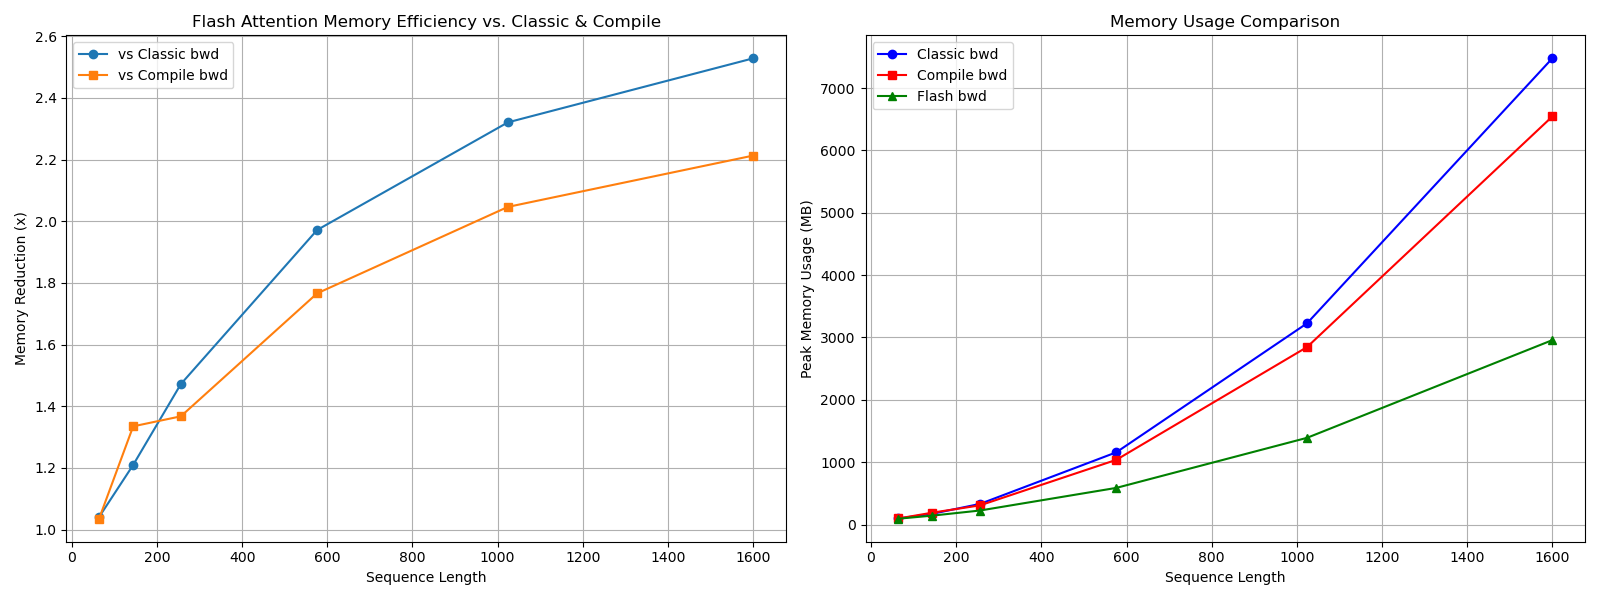
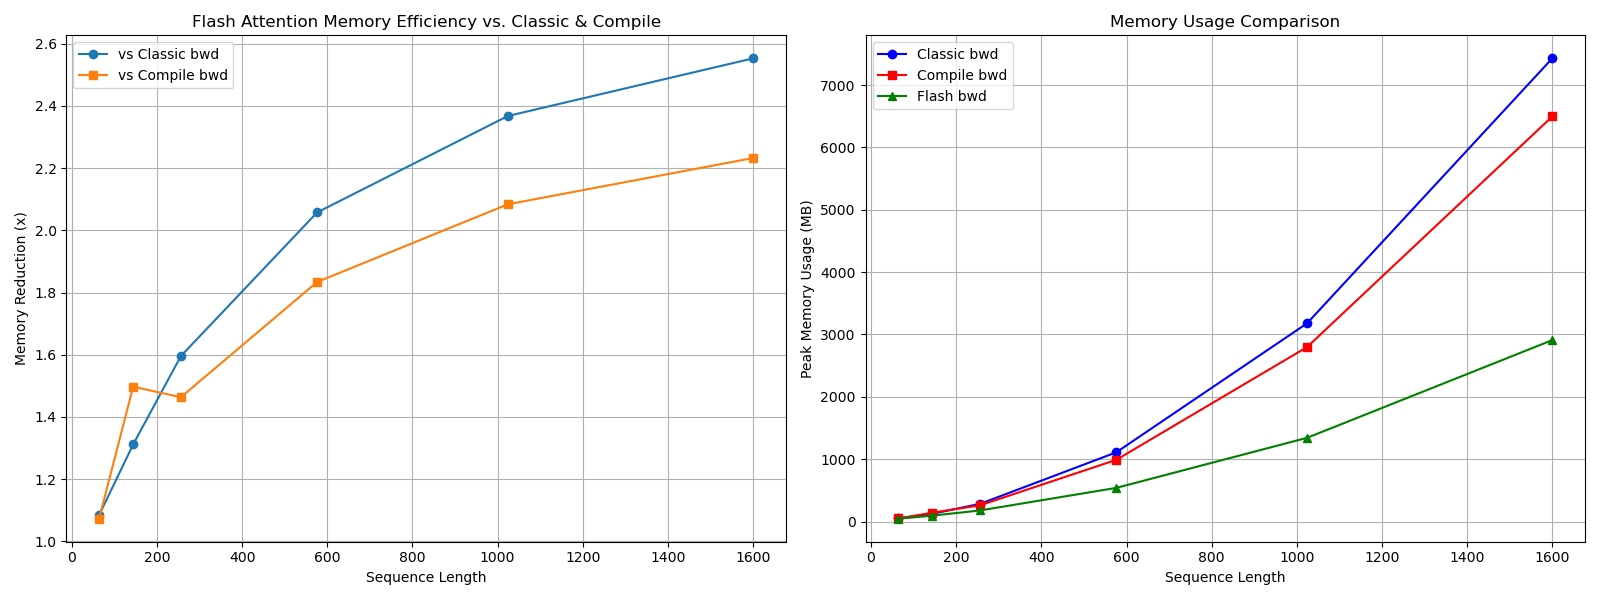
added speed benchmark & changed some params in kernels

diff --git a/benchmark/results/results.html b/benchmark/results/results.html
@@ -1,4 +1,6 @@
 <html><body>
-<image src="win-attention-comparison-batch8-window4-head6-d32-fwd.png"/>
-<image src="win-attention-comparison-batch8-window4-head6-d32-bwd.png"/>
+<image src="win-attention-tflops-comparison-batch16-window4-head6-d32-fwd.png"/>
+<image src="win-attention-time-comparison-batch16-window4-head6-d32-fwd.png"/>
+<image src="win-attention-tflops-comparison-batch16-window4-head6-d32-bwd.png"/>
+<image src="win-attention-time-comparison-batch16-window4-head6-d32-bwd.png"/>
 </body></html>

diff --git a/benchmark/bench_compute.py b/benchmark/bench_compute.py
@@ -3,15 +3,11 @@ import triton
 
 from utils import calculate_cosine_attention_flops
 from config import benchmark_configs
-from win_attention_func import flash_win_attn_2, win_attention_torch, win_attention_torch_compile
+from win_attention_func import flash_win_attn_v2, win_attention_torch, win_attention_torch_compile
 
-#torch._functorch.config.donated_buffer = False
 
 def test_attention_correctness(use_logit_scale=True, dtype=torch.float16):
-    """
-    Test the correctness of the Triton FlashAttention implementation against PyTorch.
-    Reports only the max absolute error for the forward pass and gradients.
-    """
+
     #torch.manual_seed(0)
     device = torch.device("cuda")
 
@@ -29,13 +25,11 @@ def test_attention_correctness(use_logit_scale=True, dtype=torch.float16):
     ).to(device=device, dtype=dtype)
     if use_logit_scale:
         logit_scale = torch.randn((nheads, 1, 1), device=device, dtype=dtype, requires_grad=True)
-        # logit_scale = torch.nn.Parameter(torch.log(10 * torch.ones((nheads, 1, 1))), requires_grad=True).to(device=device, dtype=dtype)
-        # logit_scale.retain_grad()
     else:
         logit_scale = None
 
     # Compute outputs
-    o_flash = flash_win_attn_2(q, k, v, logit_scale, bias, mask)
+    o_flash = flash_win_attn_v2(q, k, v, logit_scale, bias, mask)
     o_torch = win_attention_torch(q, k, v, logit_scale, bias, mask)
     o_compile = win_attention_torch_compile(q, k, v, logit_scale, bias, mask)
 
@@ -114,7 +108,7 @@ def test_attention_correctness(use_logit_scale=True, dtype=torch.float16):
 
 
 @triton.testing.perf_report(benchmark_configs)
-def bench_attention_comparison(BATCH, W, H, seqlen, HEAD_DIM, mode, provider, dtype=torch.float16, use_logit_scale=True):
+def bench_attention_comparison(BATCH, W, H, seqlen, HEAD_DIM, mode, metric, provider, dtype=torch.float16, use_logit_scale=True):
 
     device = torch.device("cuda")
 
@@ -128,13 +122,11 @@ def bench_attention_comparison(BATCH, W, H, seqlen, HEAD_DIM, mode, provider, dt
     ).to(device=device, dtype=dtype)
     if use_logit_scale:
         logit_scale = torch.randn((H, 1, 1), device=device, dtype=dtype, requires_grad=True)
-        # logit_scale = torch.nn.Parameter(torch.log(10 * torch.ones((nheads, 1, 1))), requires_grad=True).to(device=device, dtype=dtype)
-        # logit_scale.retain_grad()
     else:
         logit_scale = None
 
     def forward_backward_triton():
-        out = flash_win_attn_2(q, k, v, logit_scale, bias, mask)
+        out = flash_win_attn_v2(q, k, v, logit_scale, bias, mask)
         loss = (0 - out.sum())
         loss.backward()
         torch.cuda.synchronize()
@@ -174,7 +166,7 @@ def bench_attention_comparison(BATCH, W, H, seqlen, HEAD_DIM, mode, provider, dt
 
     if mode == "fwd":
         if provider == "triton-win-attn-2":
-            fn = lambda: flash_win_attn_2(q, k, v, logit_scale, bias, mask)
+            fn = lambda: flash_win_attn_v2(q, k, v, logit_scale, bias, mask)
         elif provider == "torch-win-attn-2":
             fn = lambda: win_attention_torch(q, k, v, logit_scale, bias, mask)
         elif provider == "torch-compile-win-attn-2":
@@ -196,17 +188,20 @@ def bench_attention_comparison(BATCH, W, H, seqlen, HEAD_DIM, mode, provider, dt
     # Run benchmark
     ms = triton.testing.do_bench(fn)
 
-    # Calculate FLOPS
-    total_flops_fwd = calculate_cosine_attention_flops(BATCH, W, H, seqlen, HEAD_DIM)
+    if metric == "TFLOPS":
+        # Calculate FLOPS
+        total_flops_fwd = calculate_cosine_attention_flops(BATCH, W, H, seqlen, HEAD_DIM)
 
-    # Backward pass has roughly 2x the FLOPS of forward pass
-    total_flops = total_flops_fwd * (3 if mode == "bwd" else 1)
+        # Backward pass has roughly 2x the FLOPS of forward pass
+        total_flops = total_flops_fwd * (3 if mode == "bwd" else 1)
 
-    # Calculate TFLOPS
-    tflops = total_flops * 1e-12 / (ms * 1e-3)
+        # Calculate TFLOPS
+        tflops = total_flops * 1e-12 / (ms * 1e-3)
 
-    # Return TFLOPS for plotting
-    return tflops
+        # Return TFLOPS for plotting
+        return tflops
+    else:
+        return ms
 
 
 if __name__ == "__main__":

diff --git a/benchmark/config.py b/benchmark/config.py
@@ -1,37 +1,43 @@
 import triton
 
 # Benchmarking configuration
-BATCH, N_WINDOWS, N_HEADS, HEAD_DIM = 8, 4, 6, 32  # Aligned with test_attention_correctness
+BATCH, N_WINDOWS, N_HEADS, HEAD_DIM = 16, 4, 6, 32  # Aligned with test_attention_correctness
 
-benchmark_configs = [
-    triton.testing.Benchmark(
-        x_names=["seqlen"],
-        x_vals=[i**2 for i in [8, 12, 16, 24, 32, 40]],
-        line_arg="provider",
-        line_vals=[
-            "triton-win-attn-2",
-            "torch-win-attn-2",
-            "torch-compile-win-attn-2",
-        ],
-        line_names=[
-            "Triton-Win-Attn-2 (TFLOPS)",
-            "PyTorch-Win-Attn-2 (TFLOPS)",
-            "PyTorch-Compile-Win-Attn-2 (TFLOPS)",
-        ],
-        styles=[
-            ("red", "-"),
-            ("blue", "--"),
-            ("cyan", "-."),
-        ],
-        ylabel="TFLOPS",  # Changed from Time (ms) to TFLOPS
-        plot_name=f"win-attention-comparison-batch{BATCH}-window{N_WINDOWS}-head{N_HEADS}-d{HEAD_DIM}-{mode}",
-        args={
-            "BATCH": BATCH,
-            "W": N_WINDOWS,
-            "H": N_HEADS,
-            "HEAD_DIM": HEAD_DIM,
-            "mode": mode,
-        }
-    )
-    for mode in ["fwd", "bwd"]
-]
+benchmark_configs = []
+
+for mode in ["fwd", "bwd"]:
+    for metric in ["TFLOPS", "TIME-ms"]:
+        metric_suffix = metric.split("-")[-1]
+        metric_prefix = metric.split("-")[0]
+        
+        config = triton.testing.Benchmark(
+            x_names=["seqlen"],
+            x_vals=[i**2 for i in [8, 12, 16]],
+            line_arg="provider",
+            line_vals=[
+                "triton-win-attn-2",
+                "torch-win-attn-2",
+                "torch-compile-win-attn-2",
+            ],
+            line_names=[
+                f"Triton-Win-Attn-2 ({metric_suffix})",
+                f"PyTorch-Win-Attn-2 ({metric_suffix})",
+                f"PyTorch-Compile-Win-Attn-2 ({metric_suffix})",
+            ],
+            styles=[
+                ("red", "-"),
+                ("blue", "--"),
+                ("cyan", "-."),
+            ],
+            ylabel=f"{metric_prefix}",
+            plot_name=f"win-attention-{metric_prefix.lower()}-comparison-batch{BATCH}-window{N_WINDOWS}-head{N_HEADS}-d{HEAD_DIM}-{mode}",
+            args={
+                "BATCH": BATCH,
+                "W": N_WINDOWS,
+                "H": N_HEADS,
+                "HEAD_DIM": HEAD_DIM,
+                "mode": mode,
+                "metric": metric,
+            }
+        )
+        benchmark_configs.append(config)

diff --git a/benchmark/bench_memory.py b/benchmark/bench_memory.py
@@ -5,7 +5,7 @@ import numpy as np
 import matplotlib.pyplot as plt
 
 # Assuming these functions are defined in a separate file as in the original code
-from win_attention_func import flash_win_attn_2, win_attention_torch, win_attention_torch_compile
+from win_attention_func import flash_win_attn_v2, win_attention_torch, win_attention_torch_compile
 
 def benchmark_memory_allocation(
     seq_lens: list,
@@ -53,7 +53,7 @@ def benchmark_memory_allocation(
         for _ in range(3):
             _ = win_attention_torch(q_classic, k_classic, v_classic, logit_scale_classic, bias_classic, mask)
             _ = win_attention_torch_compile(q_compile, k_compile, v_compile, logit_scale_compile, bias_compile, mask)
-            _ = flash_win_attn_2(q_flash, k_flash, v_flash, logit_scale_flash, bias_flash, mask)
+            _ = flash_win_attn_v2(q_flash, k_flash, v_flash, logit_scale_flash, bias_flash, mask)
 
         # Benchmark forward pass memory
         classic_fwd_memory, compile_fwd_memory, flash_fwd_memory = [], [], []
@@ -72,7 +72,7 @@ def benchmark_memory_allocation(
 
             torch.cuda.empty_cache()
             torch.cuda.reset_peak_memory_stats()
-            _ = flash_win_attn_2(q_flash, k_flash, v_flash, logit_scale_flash, bias_flash, mask)
+            _ = flash_win_attn_v2(q_flash, k_flash, v_flash, logit_scale_flash, bias_flash, mask)
             torch.cuda.synchronize()
             flash_fwd_memory.append(torch.cuda.max_memory_allocated() / (1024 ** 2))  # MB
 
@@ -98,7 +98,7 @@ def benchmark_memory_allocation(
 
             torch.cuda.empty_cache()
             torch.cuda.reset_peak_memory_stats()
-            out3 = flash_win_attn_2(q_flash, k_flash, v_flash, logit_scale_flash, bias_flash, mask)
+            out3 = flash_win_attn_v2(q_flash, k_flash, v_flash, logit_scale_flash, bias_flash, mask)
             out3.backward(grad_output)
             torch.cuda.synchronize()
             flash_bwd_memory.append(torch.cuda.max_memory_allocated() / (1024 ** 2))  # MB
@@ -226,7 +226,7 @@ def save_results_to_csv(results, filename, mode='fwd'):
 def run_memory_benchmarks():
     """Run all benchmarks with a focus on memory allocation."""
     # Parameters for tests
-    batch_size = 8
+    batch_size = 16
     num_windows = 4
     num_heads = 6
     head_dim = 32

diff --git a/flash_win_attn_v2/flash_window_attention_v2.py b/flash_win_attn_v2/flash_window_attention_v2.py
@@ -2,7 +2,7 @@ import math
 import torch
 from .kernels import _flash_attn_forward, _flash_attn_backward
 
-class FlashWindowAttention2(torch.autograd.Function):
+class FlashWindowAttentionV2(torch.autograd.Function):
     @staticmethod
     def forward(ctx, q, k, v, logit_scale=None, bias=None, mask=None):
 
@@ -55,3 +55,6 @@ class FlashWindowAttention2(torch.autograd.Function):
             scale_type=scale_type
         )
         return dq, dk, dv, dscale, db, None
+    
+
+flash_win_attn_v2 = FlashWindowAttentionV2.apply

diff --git a/flash_win_attn_v2/kernels/attn_kernel_forward.py b/flash_win_attn_v2/kernels/attn_kernel_forward.py
@@ -286,8 +286,10 @@ def _flash_attn_forward(q, k, v, logit_scale, bias=None, mask=None, scale_type="
         o = torch.empty_like(q)
 
         BLOCK_HEADDIM = max(triton.next_power_of_2(d), 16)
-        BLOCK_M = 32 if seqlen_q <= 64 else 64
-        BLOCK_N = 32 if seqlen_k <= 64 else 64
+        
+
+        BLOCK_M = 32 if seqlen_q <= 128 else 64
+        BLOCK_N = 32 if seqlen_k <= 128 else 64
         num_warps = 4 if d <= 64 else 8
         grid = (triton.cdiv(seqlen_q, BLOCK_M), batch_window_size, n_heads)
 

diff --git a/flash_win_attn_v2/kernels/attn_kernel_backward.py b/flash_win_attn_v2/kernels/attn_kernel_backward.py
@@ -582,8 +582,8 @@ def _flash_attn_backward(
     dq_accum = torch.zeros_like(q, dtype=torch.float32)
     delta = torch.empty_like(lse)
 
-    BLOCK_M = 32 if seqlen_q <= 64 else 64
-    BLOCK_N = 32 if seqlen_k <= 64 else 64
+    BLOCK_M = 32 if seqlen_q <= 128 else 64
+    BLOCK_N = 32 if seqlen_k <= 128 else 64
     BLOCK_HEADDIM = max(triton.next_power_of_2(d), 16)
     grid = (triton.cdiv(seqlen_q, BLOCK_M), batch_window_size, n_heads)
     _bwd_preprocess_do_o_dot[grid](

diff --git a/benchmark/win_attention_func.py b/benchmark/win_attention_func.py
@@ -7,9 +7,9 @@ import torch
 import torch.nn.functional as F
 
 
-from flash_win_attn_2 import FlashWindowAttention2
+from flash_win_attn_v2 import FlashWindowAttentionV2
 
-flash_win_attn_2 = FlashWindowAttention2.apply
+flash_win_attn_v2 = FlashWindowAttentionV2.apply
 
 def win_attention_torch(
     q: torch.Tensor, # (batch_size * windows, h, seq, head_dim)

diff --git a/flash_win_attn_v2/kernels/__init__.py b/flash_win_attn_v2/kernels/__init__.py
@@ -1,0 +1,7 @@
+from .attn_kernel_forward import _flash_attn_forward
+from .attn_kernel_backward import _flash_attn_backward
+
+__all__ = [
+    "_flash_attn_forward",
+    "_flash_attn_backward",
+]

diff --git a/flash_win_attn_v2/__init__.py b/flash_win_attn_v2/__init__.py
@@ -1,0 +1,6 @@
+from .flash_window_attention_v2 import FlashWindowAttentionV2, flash_win_attn_v2
+
+__all__ = [
+    "FlashWindowAttentionV2",
+    "flash_win_attn_v2",
+]
